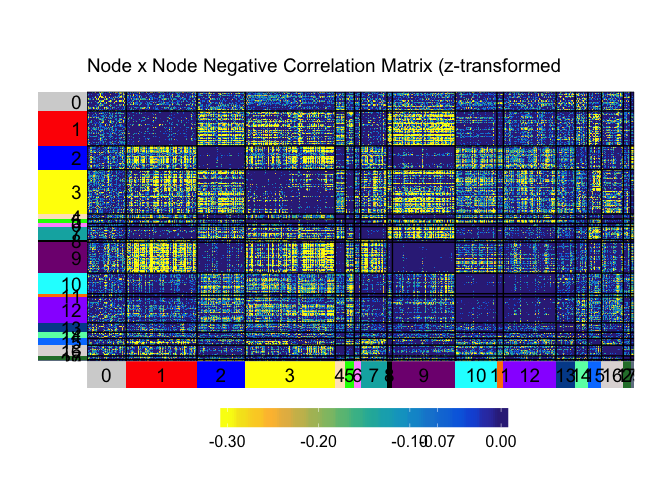
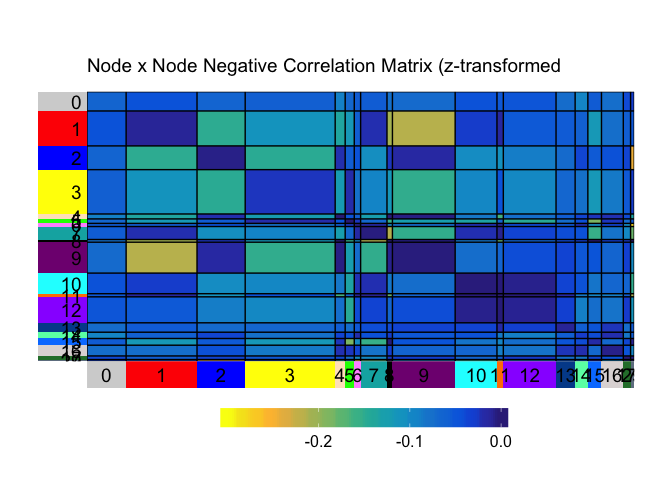
add smoothed matrices

diff --git a/cifti/cifti_MSC_r.md b/cifti/cifti_MSC_r.md
@@ -19,7 +19,6 @@ for(i in 1:length(cii$BrainModel)){
   endindx <- as.numeric(attributes(cii$BrainModel[[i]])$IndexOffset+attributes(cii$BrainModel[[i]])$IndexCount)
   
   cii$brainstructureindex[startindx:endindx] <- i
-  
 }
 
 # Load parcels
@@ -127,7 +126,6 @@ Correlation Matrix (z-transformed)
 ``` r
 r <- cor(t(tp))         # Correlation matrix between all nodes
 z <- psych::fisherz(r)  # Fisher's z-transform: 0.5 * log((1+r)/(1-r))
-
 diag(z) <- 0            # Set diagonal to '0'; not informative
 
 superheat::superheat(z, 
@@ -217,6 +215,44 @@ gridExtra::grid.arrange(ggplotify::as.grob(ss_pos$plot), ggplotify::as.grob(ss_n
 
 ![](cifti_MSC_r_files/figure-markdown_github/pn_matrices-1.png)
 
+Plot smoothed matrix
+====================
+
+``` r
+ss_smooth_pos <- superheat::superheat(X = z_pos, smooth.heat = T, smooth.heat.type = "mean",
+                     y.axis.reverse = TRUE,
+                     membership.rows = parlabel$community,
+                     membership.cols = parlabel$community,
+                     left.label.col=plotlabel$color,
+                     bottom.label.col=plotlabel$color,
+                     extreme.values.na = FALSE,
+                     heat.lim = c(0, .3), 
+                     heat.pal = parula(20),
+                     heat.pal.values = c(0, 0.5, 1),
+                     title="Node x Node Positive Correlation Matrix (z-transformed")
+```
+
+``` r
+ss_smooth_neg <- superheat::superheat(X = z_neg, smooth.heat = T, smooth.heat.type = "mean",
+                     y.axis.reverse = TRUE,
+                     membership.rows = parlabel$community,
+                     membership.cols = parlabel$community,
+                     left.label.col=plotlabel$color,
+                     bottom.label.col=plotlabel$color,
+                     extreme.values.na = FALSE,
+                     heat.lim = c(-.3, 0), 
+                     heat.pal = rev(parula(20)),
+                     heat.pal.values = c(0, 0.5, 1),
+                     title="Node x Node Negative Correlation Matrix (z-transformed")
+```
+
+``` r
+gridExtra::grid.arrange(ggplotify::as.grob(ss_smooth_pos$plot), ggplotify::as.grob(ss_smooth_neg$plot), 
+                        nrow=1)
+```
+
+![](cifti_MSC_r_files/figure-markdown_github/pn_smooth_matrices-1.png)
+
 Plot Positive Netowrk Graph (requires "igraph")
 -----------------------------------------------
 
@@ -241,4 +277,4 @@ plot(net, layout=layout_with_fr, vertex.label=NA, vertex.size=5,
      vertex.color=parlabel$color, alpha=.6)
 ```
 
-![](cifti_MSC_r_files/figure-markdown_github/unnamed-chunk-7-1.png)
+![](cifti_MSC_r_files/figure-markdown_github/unnamed-chunk-8-1.png)
